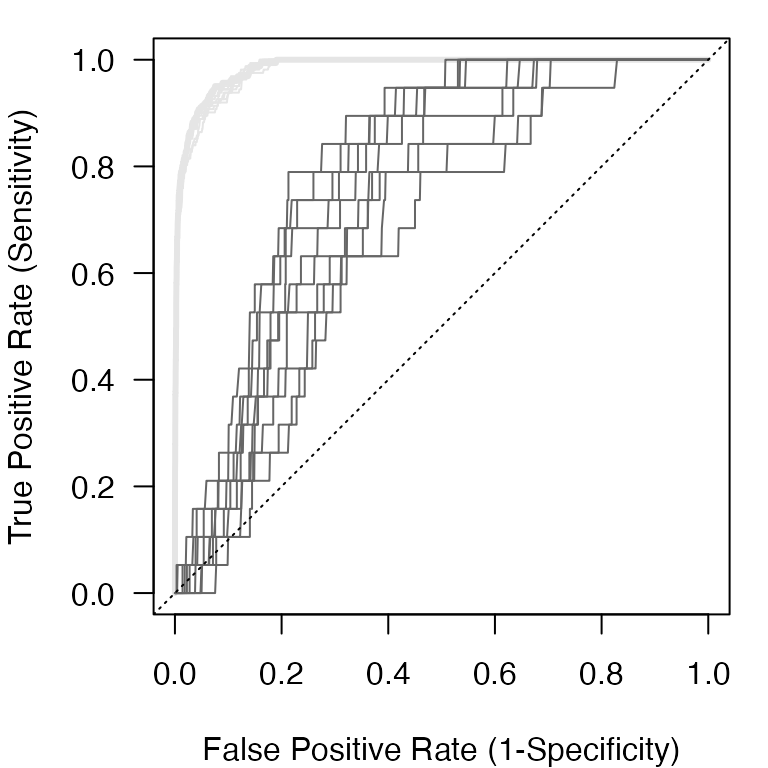
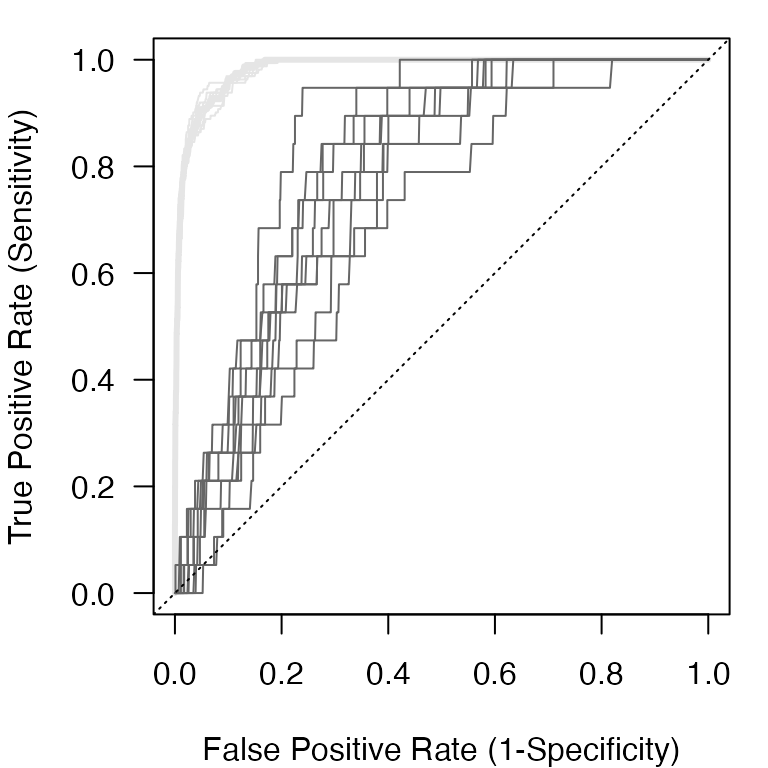
update ale

diff --git a/docs/articles/model-perf.html b/docs/articles/model-perf.html
@@ -151,7 +151,7 @@
 <code class="sourceCode R"><span class="co"># view the threshold-free ensemble performance metrics</span>
 <span class="fu"><a href="https://rdrr.io/r/base/unlist.html">unlist</a></span><span class="op">(</span><span class="va">ens_rf_ex</span><span class="op">$</span><span class="va">ens.perf</span><span class="op">[</span><span class="fu"><a href="https://rdrr.io/pkg/RandomFields/man/QMath.html">c</a></span><span class="op">(</span><span class="st">'auc'</span>,<span class="st">'rmse'</span>,<span class="st">'tss'</span><span class="op">)</span><span class="op">]</span><span class="op">)</span>
 <span class="co">#&gt;       auc      rmse       tss </span>
-<span class="co">#&gt; 0.9695075 0.3787302 0.7977925</span></code></pre></div>
+<span class="co">#&gt; 0.9739399 0.3807943 0.8274036</span></code></pre></div>
 </div>
 <div id="training-and-test-threshold-free-performance" class="section level3">
 <h3 class="hasAnchor">
@@ -161,11 +161,11 @@
 <code class="sourceCode R"><span class="co"># view the mean training threshold-free performance metrics for each RF</span>
 <span class="va">ens_rf_ex</span><span class="op">$</span><span class="va">mu.tr.perf</span>
 <span class="co">#&gt;     trAUC    trRMSE     trTSS </span>
-<span class="co">#&gt; 0.9842532 0.3794589 0.8613219</span>
+<span class="co">#&gt; 0.9843961 0.3813086 0.8682863</span>
 <span class="co"># view the mean test threshold-free performance metrics for each RF</span>
 <span class="va">ens_rf_ex</span><span class="op">$</span><span class="va">mu.te.perf</span>
 <span class="co">#&gt;     teAUC    teRMSE     teTSS </span>
-<span class="co">#&gt; 0.7518089 0.3902071 0.4926948</span></code></pre></div>
+<span class="co">#&gt; 0.7794324 0.3912606 0.5319595</span></code></pre></div>
 </div>
 <div id="receiver-operator-characteristic-curve" class="section level3">
 <h3 class="hasAnchor">
@@ -266,7 +266,7 @@
 <tbody>
 <tr class="odd">
 <td align="left">tpr</td>
-<td align="right">0.901</td>
+<td align="right">0.895</td>
 <td align="left">True Positive Rate</td>
 <td align="right">0</td>
 <td align="right">1</td>
@@ -274,7 +274,7 @@
 </tr>
 <tr class="even">
 <td align="left">tnr</td>
-<td align="right">0.897</td>
+<td align="right">0.932</td>
 <td align="left">True Negative Rate</td>
 <td align="right">0</td>
 <td align="right">1</td>
@@ -282,7 +282,7 @@
 </tr>
 <tr class="odd">
 <td align="left">auc</td>
-<td align="right">0.970</td>
+<td align="right">0.974</td>
 <td align="left">Area Under the Curve</td>
 <td align="right">0</td>
 <td align="right">1</td>
@@ -290,7 +290,7 @@
 </tr>
 <tr class="even">
 <td align="left">phi</td>
-<td align="right">0.331</td>
+<td align="right">0.401</td>
 <td align="left">Correlation Coefficient</td>
 <td align="right">-1</td>
 <td align="right">1</td>
@@ -298,7 +298,7 @@
 </tr>
 <tr class="odd">
 <td align="left">acc</td>
-<td align="right">0.897</td>
+<td align="right">0.932</td>
 <td align="left">Accuracy</td>
 <td align="right">0</td>
 <td align="right">1</td>
@@ -306,7 +306,7 @@
 </tr>
 <tr class="even">
 <td align="left">err</td>
-<td align="right">0.103</td>
+<td align="right">0.068</td>
 <td align="left">Error</td>
 <td align="right">0</td>
 <td align="right">1</td>
@@ -314,7 +314,7 @@
 </tr>
 <tr class="odd">
 <td align="left">fpr</td>
-<td align="right">0.103</td>
+<td align="right">0.068</td>
 <td align="left">False Positive Rate</td>
 <td align="right">0</td>
 <td align="right">1</td>
@@ -322,7 +322,7 @@
 </tr>
 <tr class="even">
 <td align="left">sens</td>
-<td align="right">0.901</td>
+<td align="right">0.895</td>
 <td align="left">Sensitivity</td>
 <td align="right">0</td>
 <td align="right">1</td>
@@ -330,7 +330,7 @@
 </tr>
 <tr class="odd">
 <td align="left">spec</td>
-<td align="right">0.897</td>
+<td align="right">0.932</td>
 <td align="left">Specificity</td>
 <td align="right">0</td>
 <td align="right">1</td>
@@ -338,7 +338,7 @@
 </tr>
 <tr class="even">
 <td align="left">tss</td>
-<td align="right">0.798</td>
+<td align="right">0.827</td>
 <td align="left">True Skill Statistic</td>
 <td align="right">0</td>
 <td align="right">1</td>
@@ -346,7 +346,7 @@
 </tr>
 <tr class="odd">
 <td align="left">rmse</td>
-<td align="right">0.379</td>
+<td align="right">0.381</td>
 <td align="left">Root Mean Squared Error</td>
 <td align="right">0</td>
 <td align="right">1</td>
@@ -398,7 +398,7 @@
 <tbody>
 <tr class="odd">
 <td align="left">tpr</td>
-<td align="right">0.879</td>
+<td align="right">0.853</td>
 <td align="left">True Positive Rate</td>
 <td align="right">0</td>
 <td align="right">1</td>
@@ -406,7 +406,7 @@
 </tr>
 <tr class="even">
 <td align="left">tnr</td>
-<td align="right">0.614</td>
+<td align="right">0.679</td>
 <td align="left">True Negative Rate</td>
 <td align="right">0</td>
 <td align="right">1</td>
@@ -414,7 +414,7 @@
 </tr>
 <tr class="odd">
 <td align="left">auc</td>
-<td align="right">0.752</td>
+<td align="right">0.779</td>
 <td align="left">Area Under the Curve</td>
 <td align="right">0</td>
 <td align="right">1</td>
@@ -422,7 +422,7 @@
 </tr>
 <tr class="even">
 <td align="left">phi</td>
-<td align="right">0.142</td>
+<td align="right">0.157</td>
 <td align="left">Correlation Coefficient</td>
 <td align="right">-1</td>
 <td align="right">1</td>
@@ -430,7 +430,7 @@
 </tr>
 <tr class="odd">
 <td align="left">acc</td>
-<td align="right">0.619</td>
+<td align="right">0.683</td>
 <td align="left">Accuracy</td>
 <td align="right">0</td>
 <td align="right">1</td>
@@ -438,7 +438,7 @@
 </tr>
 <tr class="even">
 <td align="left">err</td>
-<td align="right">0.381</td>
+<td align="right">0.317</td>
 <td align="left">Error</td>
 <td align="right">0</td>
 <td align="right">1</td>
@@ -446,7 +446,7 @@
 </tr>
 <tr class="odd">
 <td align="left">fpr</td>
-<td align="right">0.386</td>
+<td align="right">0.321</td>
 <td align="left">False Positive Rate</td>
 <td align="right">0</td>
 <td align="right">1</td>
@@ -454,7 +454,7 @@
 </tr>
 <tr class="even">
 <td align="left">sens</td>
-<td align="right">0.879</td>
+<td align="right">0.853</td>
 <td align="left">Sensitivity</td>
 <td align="right">0</td>
 <td align="right">1</td>
@@ -462,7 +462,7 @@
 </tr>
 <tr class="odd">
 <td align="left">spec</td>
-<td align="right">0.614</td>
+<td align="right">0.679</td>
 <td align="left">Specificity</td>
 <td align="right">0</td>
 <td align="right">1</td>
@@ -470,7 +470,7 @@
 </tr>
 <tr class="even">
 <td align="left">tss</td>
-<td align="right">0.493</td>
+<td align="right">0.532</td>
 <td align="left">True Skill Statistic</td>
 <td align="right">0</td>
 <td align="right">1</td>
@@ -478,7 +478,7 @@
 </tr>
 <tr class="odd">
 <td align="left">rmse</td>
-<td align="right">0.390</td>
+<td align="right">0.391</td>
 <td align="left">Root Mean Squared Error</td>
 <td align="right">0</td>
 <td align="right">1</td>

diff --git a/docs/articles/helper-fn.html b/docs/articles/helper-fn.html
@@ -125,11 +125,11 @@
 <span class="co">#&gt; 2   0  2.7156166 0.9379419 -0.1202814  0.26103341 -0.2298234 0.14750795</span>
 <span class="co">#&gt; 3   0  0.5609232 0.6366661  0.1242205  0.09052045 -0.3070963 0.14493653</span>
 <span class="co">#&gt; 4   0  0.2723824 0.5676777 -0.1248126 -0.29583389  0.6282519 0.06067430</span>
-<span class="co">#&gt;         cov5      random</span>
-<span class="co">#&gt; 1 -0.1553770 -0.31545240</span>
-<span class="co">#&gt; 2  0.3248217  0.04875384</span>
-<span class="co">#&gt; 3  0.0230301  0.42132180</span>
-<span class="co">#&gt; 4 -0.2524068  0.61525386</span></code></pre></div>
+<span class="co">#&gt;         cov5     random</span>
+<span class="co">#&gt; 1 -0.1553770 -0.6930352</span>
+<span class="co">#&gt; 2  0.3248217 -0.2479617</span>
+<span class="co">#&gt; 3  0.0230301 -2.0152975</span>
+<span class="co">#&gt; 4 -0.2524068  1.6836239</span></code></pre></div>
 <p>As we can see above, the main purpose of <code>erf_data_prep</code> is to reorganize the data.frame so that the variable of interest is in the first column. Additionally, a random variable is included to provide a cutoff for variable importance downstream.</p>
 <p>The <em>header</em> argument allows you to tack on additional columns that you want to include in the model prediction data.frame. This is a useful way to add a column of unique IDs for matching predictions and observations should they get scrambled. It is unwise to include all columns in the <em>header</em> argument; tacking any extraneous columns to the ERF output is less wasteful of computational resources.</p>
 <p>The most <strong>impactful</strong> argument in <code>erf_data_prep</code> is the <em>duplicate</em> argument. This logical flag, when TRUE, copies the covariates for any row that has more than one presence in it. For example, say we have a fishery set a longline with each set equaling an observation (or row) in our data.frame. We are likely to expect that on the 1000’s of hooks on this longline that we could catch more than two of the species of interest. The <em>duplicate</em> argument handles this instance by copying the multiple presences on an observation. This effectively upweights covariate space where the species occurs multiple times.</p>
@@ -146,7 +146,7 @@
                                                value<span class="op">=</span><span class="cn">T</span><span class="op">)</span><span class="op">)</span>
 <span class="fu"><a href="https://rdrr.io/r/base/print.html">print</a></span><span class="op">(</span><span class="va">erf_form</span><span class="op">)</span>
 <span class="co">#&gt; obs ~ cov1 + cov2 + cov3 + cov4 + cov5 + random</span>
-<span class="co">#&gt; &lt;environment: 0x7feef8cd05c0&gt;</span></code></pre></div>
+<span class="co">#&gt; &lt;environment: 0x7f81366ee5c0&gt;</span></code></pre></div>
 <p>This function is incredibly simple and mostly called internally to <code>ens_random_forests</code>. It simple sets the dependent variable and the covariates up for use in the resulting <code>randomForests</code> call.</p>
 </div>
 </div>
@@ -199,16 +199,16 @@
 <code class="sourceCode R"><span class="va">rf_ex</span> <span class="op">&lt;-</span> <span class="fu"><a href="../reference/rf_ens_fn.html">rf_ens_fn</a></span><span class="op">(</span><span class="va">erf_data</span>, <span class="va">erf_form</span>, <span class="va">max_split</span>, ntree<span class="op">=</span><span class="fl">50</span><span class="op">)</span>
 <span class="fu"><a href="https://rdrr.io/pkg/raster/man/headtail.html">head</a></span><span class="op">(</span><span class="va">rf_ex</span><span class="op">$</span><span class="va">preds</span><span class="op">)</span>
 <span class="co">#&gt;    P.0  P.1 PRES  type</span>
-<span class="co">#&gt; 1 0.70 0.30    0 train</span>
-<span class="co">#&gt; 2 0.44 0.56    0 train</span>
-<span class="co">#&gt; 3 0.50 0.50    0 train</span>
+<span class="co">#&gt; 1 0.74 0.26    0 train</span>
+<span class="co">#&gt; 2 0.30 0.70    0  test</span>
+<span class="co">#&gt; 3 0.66 0.34    0 train</span>
 <span class="co">#&gt; 4 0.74 0.26    0 train</span>
-<span class="co">#&gt; 5 0.42 0.58    0 train</span>
+<span class="co">#&gt; 5 0.36 0.64    0 train</span>
 <span class="co">#&gt; 6 1.00 0.00    0 train</span>
 <span class="va">rf_ex</span><span class="op">$</span><span class="va">roc_train</span><span class="op">$</span><span class="va">auc</span> <span class="co">#training AUC</span>
-<span class="co">#&gt; [1] 0.9739825</span>
+<span class="co">#&gt; [1] 0.972041</span>
 <span class="va">rf_ex</span><span class="op">$</span><span class="va">roc_test</span><span class="op">$</span><span class="va">auc</span> <span class="co">#test AUC</span>
-<span class="co">#&gt; [1] 0.7762622</span>
+<span class="co">#&gt; [1] 0.7585218</span>
 <span class="op">(</span><span class="va">rf_ex</span><span class="op">$</span><span class="va">roc_train</span><span class="op">$</span><span class="va">auc</span> <span class="op">&gt;</span> <span class="va">rf_ex</span><span class="op">$</span><span class="va">roc_test</span><span class="op">$</span><span class="va">auc</span><span class="op">)</span>
 <span class="co">#&gt; [1] TRUE</span></code></pre></div>
 </div>

diff --git a/docs/reference/calc_ALE.html b/docs/reference/calc_ALE.html
@@ -183,8 +183,21 @@
 <span class='va'>ens_rf_ex</span> <span class='op'>&lt;-</span> <span class='fu'><a href='ens_random_forests.html'>ens_random_forests</a></span><span class='op'>(</span>df<span class='op'>=</span><span class='va'>simData</span><span class='op'>$</span><span class='va'>samples</span>, var<span class='op'>=</span><span class='st'>"obs"</span>, covariates<span class='op'>=</span><span class='fu'><a href='https://rdrr.io/r/base/grep.html'>grep</a></span><span class='op'>(</span><span class='st'>"cov"</span>, <span class='fu'><a href='https://rdrr.io/r/base/colnames.html'>colnames</a></span><span class='op'>(</span><span class='va'>simData</span><span class='op'>$</span><span class='va'>samples</span><span class='op'>)</span>,value<span class='op'>=</span><span class='cn'>T</span><span class='op'>)</span>, save<span class='op'>=</span><span class='cn'>FALSE</span>, cores<span class='op'>=</span><span class='fl'>1</span><span class='op'>)</span>
 </div><div class='output co'>#&gt; <span class='message'>rounding n.forests to the nearest one</span></div><div class='input'>
 <span class='va'>ALEdf</span> <span class='op'>&lt;-</span> <span class='fu'>calc_ALE</span><span class='op'>(</span><span class='va'>ens_rf_ex</span>, save<span class='op'>=</span><span class='cn'>FALSE</span><span class='op'>)</span>
-</div><div class='output co'>#&gt; <span class='message'>No name of response variable, making one</span></div><div class='output co'>#&gt; <span class='message'>rounding n.forests to the nearest one</span></div><div class='output co'>#&gt; <span class='error'>Error in e$fun(obj, substitute(ex), parent.frame(), e$data): unable to find variable "ALEfun.J1"</span></div><div class='input'><span class='fu'><a href='https://rdrr.io/r/utils/head.html'>head</a></span><span class='op'>(</span><span class='va'>ALEdf</span><span class='op'>[[</span><span class='fl'>1</span><span class='op'>]</span><span class='op'>]</span><span class='op'>$</span><span class='va'>df</span><span class='op'>)</span>
-</div><div class='output co'>#&gt; <span class='error'>Error in head(ALEdf[[1]]$df): object 'ALEdf' not found</span></div><div class='input'>
+</div><div class='output co'>#&gt; <span class='message'>No name of response variable, making one</span></div><div class='output co'>#&gt; <span class='message'>rounding n.forests to the nearest one</span></div><div class='input'><span class='fu'><a href='https://rdrr.io/r/utils/head.html'>head</a></span><span class='op'>(</span><span class='va'>ALEdf</span><span class='op'>[[</span><span class='fl'>1</span><span class='op'>]</span><span class='op'>]</span><span class='op'>$</span><span class='va'>df</span><span class='op'>)</span>
+</div><div class='output co'>#&gt;            x   class      q        f.1        f.2         f.3        f.4
+#&gt; 1 -0.6321187 numeric 0.0002 -0.1124345 -0.1962214 -0.06231669 -0.1111357
+#&gt; 2 -0.5269505 numeric 0.0200 -0.2274345 -0.1962214 -0.20731669 -0.2011357
+#&gt; 3 -0.4847148 numeric 0.0401 -0.2274345 -0.1962214 -0.20731669 -0.2011357
+#&gt; 4 -0.4507819 numeric 0.0601 -0.2174345 -0.1912214 -0.21731669 -0.1911357
+#&gt; 5 -0.4220293 numeric 0.0801 -0.2074345 -0.1812214 -0.20731669 -0.1811357
+#&gt; 6 -0.3994806 numeric 0.1001 -0.2074345 -0.1812214 -0.22231669 -0.1911357
+#&gt;           f.5         f.6        f.7         f.8       f.9        f.10
+#&gt; 1 -0.04450836 -0.08992608 -0.1069719 -0.06323448 -0.142773 -0.07537429
+#&gt; 2 -0.20450836 -0.15992608 -0.2519719 -0.20823448 -0.227773 -0.20537429
+#&gt; 3 -0.20450836 -0.15992608 -0.2519719 -0.20325935 -0.227773 -0.20537429
+#&gt; 4 -0.20450836 -0.15992608 -0.2419719 -0.19825935 -0.207773 -0.19037429
+#&gt; 5 -0.19950836 -0.15492608 -0.2369719 -0.17825935 -0.202773 -0.17037429
+#&gt; 6 -0.20950836 -0.15992608 -0.2419719 -0.17825935 -0.222773 -0.18537429</div><div class='input'>
 </div></pre>
   </div>
   <div class="col-md-3 hidden-xs hidden-sm" id="pkgdown-sidebar">

diff --git a/docs/articles/basic-workflow.html b/docs/articles/basic-workflow.html
@@ -255,28 +255,28 @@
 <span class="co">#view the ensemble model predictions</span>
 <span class="fu"><a href="https://rdrr.io/pkg/raster/man/headtail.html">head</a></span><span class="op">(</span><span class="va">ens_rf_ex</span><span class="op">$</span><span class="va">ens.pred</span><span class="op">)</span>
 <span class="co">#&gt;      P.0    P.1 PRES   resid</span>
-<span class="co">#&gt; 1 0.6484 0.3516    0 -0.3516</span>
-<span class="co">#&gt; 2 0.3521 0.6479    0 -0.6479</span>
-<span class="co">#&gt; 3 0.5883 0.4117    0 -0.4117</span>
-<span class="co">#&gt; 4 0.7349 0.2651    0 -0.2651</span>
-<span class="co">#&gt; 5 0.3606 0.6394    0 -0.6394</span>
-<span class="co">#&gt; 6 0.9911 0.0089    0 -0.0089</span>
+<span class="co">#&gt; 1 0.6436 0.3564    0 -0.3564</span>
+<span class="co">#&gt; 2 0.3601 0.6399    0 -0.6399</span>
+<span class="co">#&gt; 3 0.6109 0.3891    0 -0.3891</span>
+<span class="co">#&gt; 4 0.7178 0.2822    0 -0.2822</span>
+<span class="co">#&gt; 5 0.3632 0.6368    0 -0.6368</span>
+<span class="co">#&gt; 6 0.9900 0.0100    0 -0.0100</span>
 
 <span class="co">#view the threshold-free ensemble performance metrics</span>
 <span class="fu"><a href="https://rdrr.io/r/base/unlist.html">unlist</a></span><span class="op">(</span><span class="va">ens_rf_ex</span><span class="op">$</span><span class="va">ens.perf</span><span class="op">[</span><span class="fu"><a href="https://rdrr.io/pkg/RandomFields/man/QMath.html">c</a></span><span class="op">(</span><span class="st">'auc'</span>,<span class="st">'rmse'</span>,<span class="st">'tss'</span><span class="op">)</span><span class="op">]</span><span class="op">)</span>
 <span class="co">#&gt;       auc      rmse       tss </span>
-<span class="co">#&gt; 0.9704409 0.3791412 0.8132198</span>
+<span class="co">#&gt; 0.9724953 0.3796731 0.8307633</span>
 
 <span class="co">#view the mean test threshold-free performance metrics for each RF</span>
 <span class="va">ens_rf_ex</span><span class="op">$</span><span class="va">mu.te.perf</span>
 <span class="co">#&gt;     teAUC    teRMSE     teTSS </span>
-<span class="co">#&gt; 0.7659047 0.3920254 0.5040733</span>
+<span class="co">#&gt; 0.7869198 0.3914749 0.5309519</span>
 
 <span class="co">#structure of the individual model predictions</span>
 <span class="fu"><a href="https://rdrr.io/r/utils/str.html">str</a></span><span class="op">(</span><span class="va">ens_rf_ex</span><span class="op">$</span><span class="va">pred</span><span class="op">)</span>
 <span class="co">#&gt; List of 2</span>
-<span class="co">#&gt;  $ p    : num [1:10000, 1:10] 0.374 0.645 0.447 0.271 0.635 0.01 0.015 0.716 0.041 0.724 ...</span>
-<span class="co">#&gt;  $ resid: num [1:10000, 1:10] -0.374 -0.645 -0.447 -0.271 -0.635 -0.01 -0.015 -0.716 -0.041 -0.724 ...</span></code></pre></div>
+<span class="co">#&gt;  $ p    : num [1:10000, 1:10] 0.334 0.624 0.363 0.27 0.651 0.005 0.014 0.646 0.03 0.672 ...</span>
+<span class="co">#&gt;  $ resid: num [1:10000, 1:10] -0.334 -0.624 -0.363 -0.27 -0.651 -0.005 -0.014 -0.646 -0.03 -0.672 ...</span></code></pre></div>
 <p>As we can see, the ensemble performs better than the mean test predictions. This is advantage of ERF over other RF modifications for extreme class imbalance. <a href="https://www.int-res.com/abstracts/esr/v43/p183-197/">Siders et al. 2020</a> discusses the various performance of these other modifications if you are curious.</p>
 </div>
   </div>

diff --git a/docs/reference/erf_formula_prep.html b/docs/reference/erf_formula_prep.html
@@ -161,7 +161,7 @@
     <h2 class="hasAnchor" id="examples"><a class="anchor" href="#examples"></a>Examples</h2>
     <pre class="examples"><div class='input'><span class='fu'>erf_formula_prep</span><span class='op'>(</span><span class='st'>'death'</span>,<span class='fu'><a href='https://rdrr.io/pkg/RandomFields/man/QMath.html'>c</a></span><span class='op'>(</span><span class='st'>'sarlaac'</span>,<span class='st'>'lightsaber'</span>,<span class='st'>'wookie'</span>,<span class='st'>'stormtrooper'</span><span class='op'>)</span><span class='op'>)</span>
 </div><div class='output co'>#&gt; death ~ sarlaac + lightsaber + wookie + stormtrooper + random
-#&gt; &lt;environment: 0x7f9ab3711578&gt;</div><div class='input'>
+#&gt; &lt;environment: 0x7f91f42ff0e8&gt;</div><div class='input'>
 </div></pre>
   </div>
   <div class="col-md-3 hidden-xs hidden-sm" id="pkgdown-sidebar">

diff --git a/docs/reference/index.html b/docs/reference/index.html
@@ -169,9 +169,9 @@
       </tr><tr>
         
         <td>
-          <p><code><a href="ALE_fn.html">ALE_fn()</a></code> </p>
+          <p><code><a href="calc_ALE.html">calc_ALE()</a></code> </p>
         </td>
-        <td><p>Accumulated Local Effects workhorse</p></td>
+        <td><p>Accumulated Local Effects for ERF</p></td>
       </tr><tr>
         
         <td>
@@ -221,6 +221,12 @@
           <p><code><a href="rocr_ens.html">rocr_ens()</a></code> </p>
         </td>
         <td><p>Receiver Operator Characteristic Curve calculations</p></td>
+      </tr><tr>
+        
+        <td>
+          <p><code><a href="ALE_fn.html">ALE_fn()</a></code> </p>
+        </td>
+        <td><p>Accumulated Local Effects workhorse</p></td>
       </tr>
     </tbody><tbody>
       <tr>
